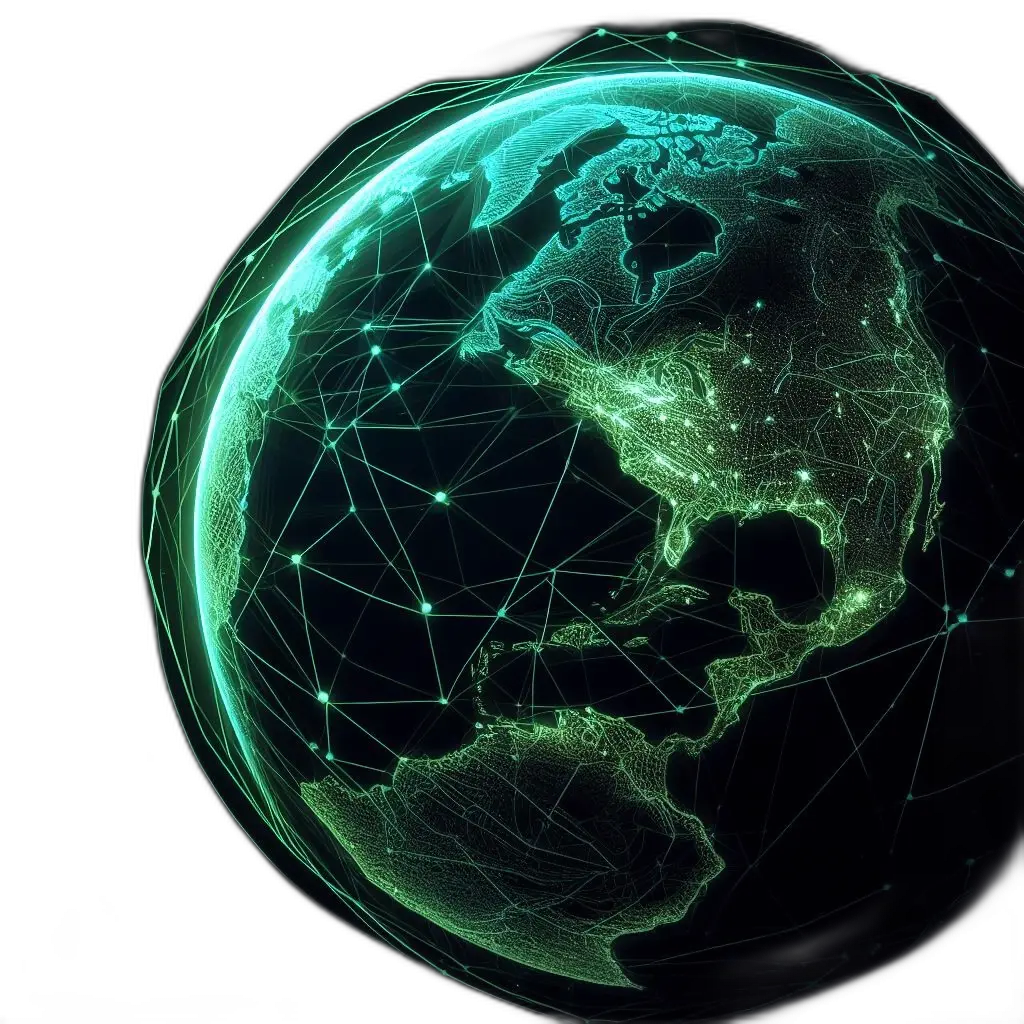
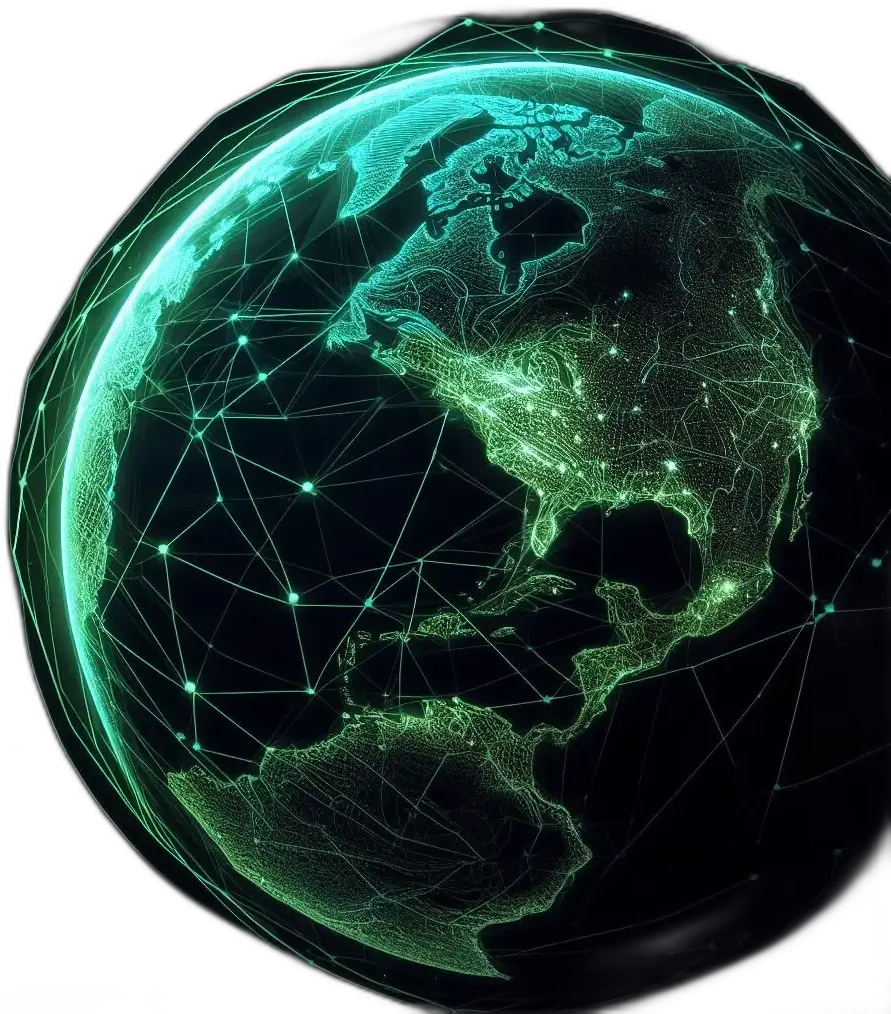
phone-almost

diff --git a/style-m.css b/style-m.css
@@ -1,0 +1,171 @@
+.ihr {
+    height: 2vh;
+    border: 0.6vh solid #ff4a67;
+    margin: 5vh 2vh;
+}
+header {
+    padding: 0;
+    flex-direction: column;
+    justify-content: center;
+}
+.myButton {
+    display: none;
+}
+
+header ul li a {
+    font-size: 0.5rem;
+}
+.landing {
+    overflow: hidden;
+}
+.landing img {
+    width: 100vh;
+    z-index: -1;
+    opacity: 50%;
+    position: absolute;
+    right: 0;
+}
+.landing_main {
+    padding-left: 5vh;
+}
+.landing_main h1 {
+    font-size: 2.7rem;
+    line-height: 5vh;
+}
+.landing_main p {
+    font-size: 0.6rem;
+}
+.lm_up h3 {
+    font-size: 1.5rem;
+    line-height: 3.5vh;
+}
+.lm_up h4 {
+    font-size: 0.6rem;
+}
+.cnt0 {
+    flex-direction: column;
+    margin: 5vh 2vh !important;
+}
+.cnt0 img {
+    padding-top: 30px;
+    width: 45vh;
+}
+.cnt0_abt h5 {
+    font-size: 1.1rem;
+}
+.cnt0_abt h3 {
+    font-size: 2rem;
+}
+.cnt0_abt_text {
+    font-size: 0.9rem;
+}
+.cnt1 {
+    margin: 5vh 2vh;
+}
+.cnt1 h3 {
+    font-size: 2rem;
+}
+.cnt1_cards {
+    margin-top: 0vh;
+}
+.cnt1_card {
+    height: 40vh;
+    width: 40vh;
+    margin: 2vh 0vh;
+    padding: 2vh;
+}
+.c1c_ins h5 {
+    font-size: 1.1rem;
+}
+.c1c_ins p {
+    font-size: 0.9rem;
+}
+.cnt1_card a {
+    font-size: 1rem;
+}
+.cnt2 {
+    margin: 5vh 2vh;
+}
+#cnt2_h4 {
+    font-size: 1.1rem;
+}
+#cnt2_p {
+    font-size: 2rem;
+    line-height: 5vh;
+}
+.event-list {
+    margin-top: 2vh;
+}
+.timetable {
+    padding: 10px;
+}
+.topic_ul li {
+    font-size: 0.8rem;
+}
+.events {
+    margin: 5px;
+}
+.events h3 {
+    font-size: 1.2rem;
+}
+.events p {
+    font-size: 0.8rem;
+}
+.events h4 {
+    font-size: 1rem;
+}
+.events hr {
+    width: 80px;
+    margin-bottom: 5px;
+}
+.cnt3_top {
+    margin: 5vh 2vh;
+}
+.cnt3_top h5 {
+    font-size: 1rem;
+    font-weight: 100;
+    letter-spacing: 3px;
+    font-family: 'open sans', sans-serif;
+    color: #ff4a67;
+}
+.cnt3_top h3 {
+    font-family: 'anton', sans-serif;
+    line-height: 6vh;
+    font-size: 2rem;
+    font-weight: 300;
+    color: rgb(26, 255, 26);
+}
+.cnt3_prsns {
+    flex-direction: column;
+    align-items: center;
+    flex-wrap: wrap;
+}
+.prsn {
+    width: auto;
+    padding: 20px;
+}
+.prsn img {
+    width: 100px;
+    height: 100px;
+}
+.prsn h4 {
+    font-size: 1rem;
+}
+.cnt4 {
+    display: flex;
+    flex-direction: column;
+    margin: 5vh 2vh;
+}
+.cnt4_top h5 {
+    font-size: 1rem;
+}
+.cnt4_base {
+    flex-wrap: wrap;
+    margin-top: 0vh;
+}
+.cnt4_top h3 {
+    font-size: 2rem;
+}
+.game {
+    margin: 2vh 1vh;
+}

diff --git a/index.html b/index.html
@@ -7,6 +7,7 @@
   <meta name="description" content="Setcom" />
   <title>SecCom 2023</title>
   <link rel="stylesheet" type="text/css" href="style.css" />
+  <link rel="stylesheet" media="screen and (max-width: 480px)" href="style-m.css">
 </head>
 
 <body>

diff --git a/style.css b/style.css
@@ -84,7 +84,7 @@ header ul li a:hover {
   height: 100vh;
 }
 .landing img {
-  width: 120vh;
+  width: 10vh;
   height: auto;
   filter: drop-shadow( 0px 0px 10px #082314);
 }
